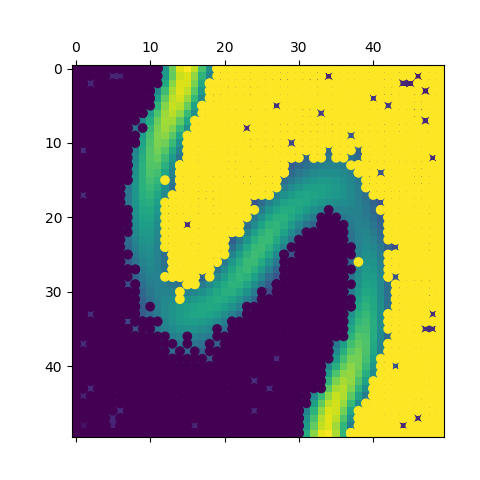
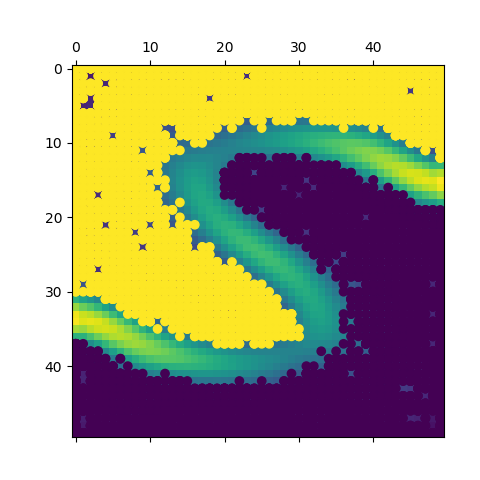
modified:   README.md 	modified:   figures/clusts.png 	modified:   figures/moons.png 	modified:   figures/project.png 	modified:   figures/project_clusts.png 	modified:   figures/umat.png 	modified:   generate_README.sh

diff --git a/README.md b/README.md
@@ -20,25 +20,68 @@ pip install quicksom
 # SOM object interface
 The SOM object can be created using any grid size, with a optional periodic topology.
 One can also choose optimization parameters such as the number of epochs to train or the batch size
-```
-from quicksom import SOM
+```python
+import pickle
+import numpy
+import torch
+from som import SOM
 
 device = 'cuda' if torch.cuda.is_available() else 'cpu'
+X = numpy.load('contact_desc.npy')
 X = torch.from_numpy(X)
+X = X.float()
 X = X.to(device)
-m, n = 50, 50
+m, n = 100, 100
 dim = X.shape[1]
-n_iter = 5
-batch_size = 10
-som = SOM(m, n, dim, n_iter, device=device, periodic=True)
+niter = 5
+batch_size = 100
+som = SOM(m, n, dim, niter=niter, p_norm=1, device=device)
 learning_error = som.fit(X, batch_size=batch_size)
 bmus, inference_error = som.predict(X, batch_size=batch_size)
 predicted_clusts, errors = som.predict_cluster(X)
+som.to_device('cpu')
+pickle.dump(som, open('som.pickle', 'wb'))
 ```
 ```
 $ ./main.py
 
-
+training ... cpu
+_parameters ... cpu
+_buffers ... cpu
+_non_persistent_buffers_set ... cpu
+_backward_hooks ... cpu
+_forward_hooks ... cpu
+_forward_pre_hooks ... cpu
+_state_dict_hooks ... cpu
+_load_state_dict_pre_hooks ... cpu
+_modules ... cpu
+m ... cpu
+n ... cpu
+grid_size ... cpu
+dim ... cpu
+periodic ... cpu
+p_norm ... cpu
+sched ... cpu
+niter ... cpu
+alpha ... cpu
+sigma ... cpu
+centroids -> cpu
+locations -> cpu
+maprange -> cpu
+offset1 -> cpu
+offset2 -> cpu
+offset3 -> cpu
+offset4 -> cpu
+offset5 -> cpu
+offset6 -> cpu
+offset7 -> cpu
+offset8 -> cpu
+precompute ... cpu
+distance_mat -> cpu
+umat ... cpu
+cluster_att ... cpu
+alpha_op ... cpu
+sigma_op ... cpu
 ```
 ## Input dataset:
 ![input](https://raw.githubusercontent.com/bougui505/quicksom/master/figures/moons.png)
